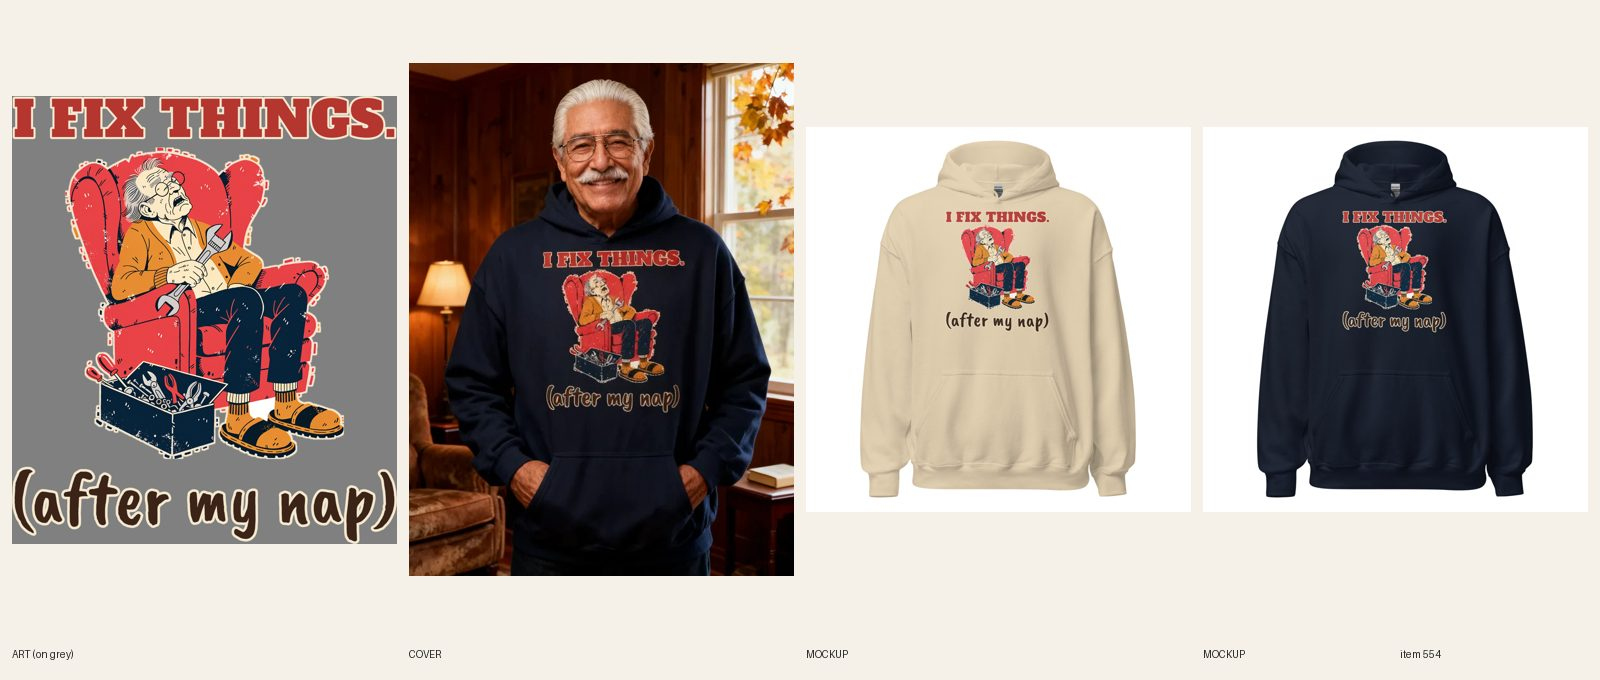
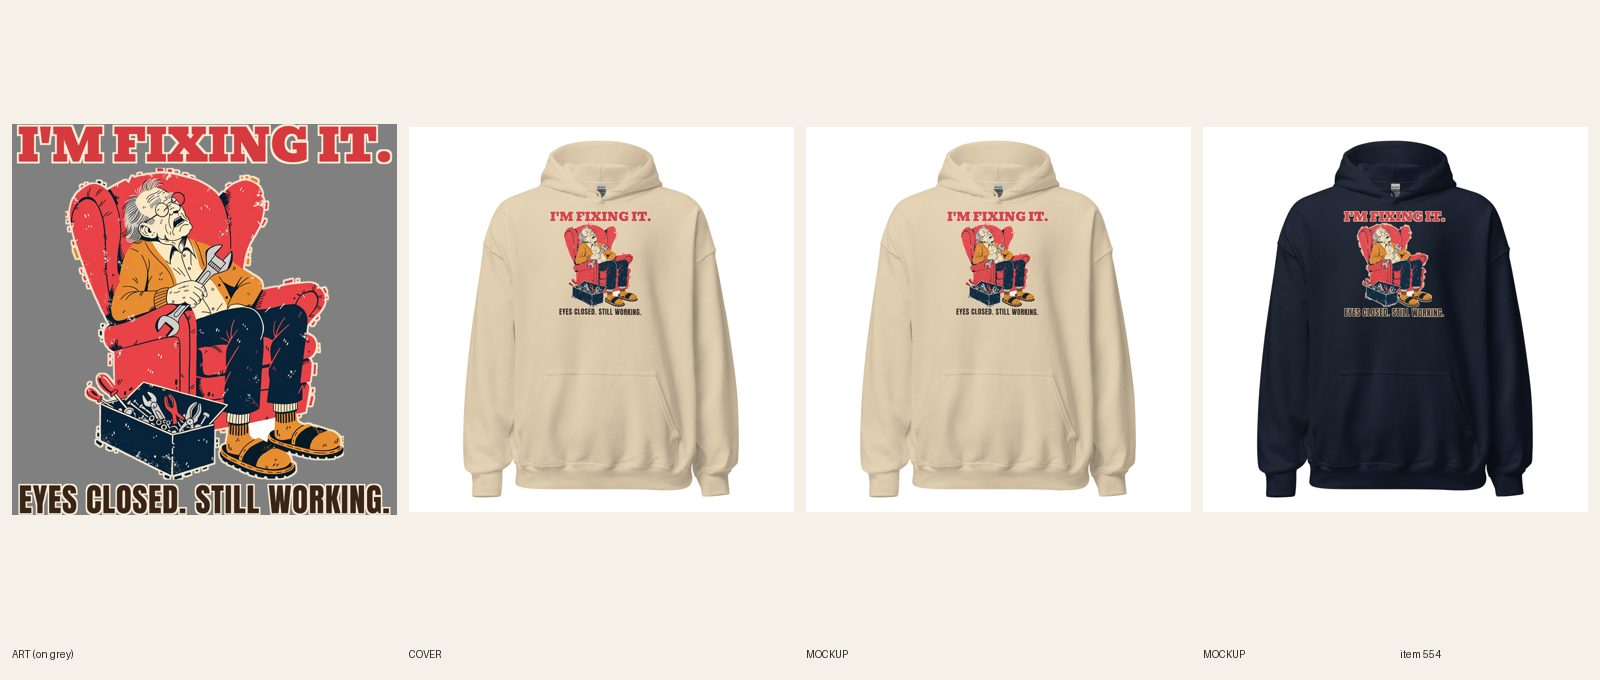
[C] review 554 I'm Fixing It grandpa hoodie (line + type redo)
Claude-Session: https://claude.ai/code/session_01CCHcDj8LcJJ8qUPtKE3cvn

Changed region(s): [[0.0, 0.0926, 0.5, 0.8647], [0.8438, 0.3088, 0.9062, 0.4941], [0.5938, 0.3088, 0.6562, 0.4941]]

diff --git a/designs/c554/make.py b/designs/c554/make.py
@@ -1,0 +1,30 @@
+from PIL import Image, ImageDraw, ImageFont, ImageFilter
+FD='designs/fonts/'
+RED=(214,58,62,255); CREAM=(246,236,214,255); BROWN=(58,36,24,255)
+def line(text,font,wfrac,W,fill,key,kw=31,track=0):
+    f=ImageFont.truetype(FD+font,800); adv=[f.getlength(c) for c in text]
+    tot=sum(adv)+track*(len(text)-1); size=int(800*W*wfrac/tot)
+    f=ImageFont.truetype(FD+font,size); adv=[f.getlength(c) for c in text]; tr=int(track*size/800)
+    asc,desc=f.getmetrics(); tot=int(sum(adv)+tr*(len(text)-1))
+    pad=80; im=Image.new('RGBA',(tot+2*pad,asc+desc+2*pad),(0,0,0,0))
+    def draw(layer,col):
+        d=ImageDraw.Draw(layer); x=pad
+        for c,a in zip(text,adv): d.text((x,pad),c,font=f,fill=col); x+=a+tr
+    k=Image.new('L',im.size,0); d=ImageDraw.Draw(k); x=pad
+    for c,a in zip(text,adv): d.text((x,pad),c,font=f,fill=255); x+=a+tr
+    k=k.filter(ImageFilter.MaxFilter(kw)); im.paste(Image.new('RGBA',im.size,key),(0,0),k)
+    draw(im,fill)
+    return im.crop(im.getbbox())
+src=Image.open('docs/print-files/554-fix-things-after-naps-hoodie.png').convert('RGBA')
+W=src.width; art=src.crop((0,403,W,2840))
+h1=line("I'M FIXING IT.",'Bevan-Regular.ttf',0.97,W,RED,CREAM)
+h2=line("EYES CLOSED. STILL WORKING.",'Anton-Regular.ttf',0.97,W,BROWN,CREAM,kw=25,track=20)
+print('h1',h1.size,'h2',h2.size,'ratio',h2.height/h1.height)
+g=30; H=h1.height+g+art.height+g+h2.height
+out=Image.new('RGBA',(W,H),(0,0,0,0)); y=0
+out.alpha_composite(h1,((W-h1.width)//2,0)); y=h1.height+g
+out.alpha_composite(art,(0,y)); y+=art.height+g
+out.alpha_composite(h2,((W-h2.width)//2,y))
+out.save('docs/print-files/554-v2-fixing-it.png'); print(out.size,H/W)
+for n,c in (('sand',(214,196,160,255)),('navy',(38,50,88,255))):
+    bg=Image.new('RGBA',out.size,c); bg.alpha_composite(out); bg.convert('RGB').resize((600,int(600*H/W))).save(f'designs/c554/prev_{n}.png')

diff --git a/docs/pipeline/554-grandpa-hoodie-i-fix-things-after-naps.md b/docs/pipeline/554-grandpa-hoodie-i-fix-things-after-naps.md
@@ -1,4 +1,4 @@
-status: REDO
+status: REVIEW
 lane: C
 type: twin
 id: 554
@@ -27,3 +27,4 @@ kd: 13
 - 2026-10-18 04:07 UTC builder [C]: resumed after container loss; Printful sync completed 12/12, audit clean except not-active. REVIEW.
 - 2026-10-18 04:20 UTC director: LIVE. FW 1500, both lines read on Navy; grandpa cover, hood visible. ACTIVE, published. Audit PASS.
 - 2026-10-18 17:22 UTC director: QUALITY RESET grade C (new line + type), REDO. The product stays ACTIVE (same handle, URL, title keyword). 1. Line (R3.12, quality-reset 'Lines'): "I FIX THINGS. / (after my nap)": Statement + parenthetical mild aside; stock grandpa joke, no real punch. Write 5 candidates, keep the one a stranger laughs at in 3 seconds without backstory; kill lines that only describe the picture; if none of the 5 is funny, PARK it. 2. Quality reset type bar (docs/backlog/quality-reset.md, 'The new bar'): headline at least 90% of the art width, heavy, colors pulled from the art; second line at least 45% of the headline's height, never a thin script on a dark or mid garment; use the lettering as a shape (arch, stacked lockup, words breaking into the art), not a plain bar above and a script line below; no font used on more than 1 in 6 of the last 30 designs. 3. Keep the art if it carries the new line, else one new illustration (R4/R5). New print means a new cover per R6.10, copy line one rewritten for the new joke (R8.3), and a fresh review sheet (R7.7). While quality-reset.md says PAUSED, only lane A builds, and only the samples step 2 names.
+- 2026-10-20 04:30 UTC builder [C]: REDO new line + type (grade C). 5 candidates: "I'M FIXING IT. / EYES CLOSED. STILL WORKING." (kept: the sleeping grandpa's own defense), "SHHH. I'M FIXING IT.", "SLEEPING ON THE JOB.", "WORLD'S OKAYEST FIXER.", "FIX IT TOMORROW (MAYBE)". Same art; headline I'M FIXING IT. in Bevan, 97% of the art width, red with cream keyline; EYES CLOSED. STILL WORKING. in Anton caps, 97% width, 78% of the headline's height, dark brown with cream outline so it reads on Sand and Navy (no cream fills, so one file serves both; logged: no light file needed, headline fill red). Print docs/print-files/554-v2-fixing-it.png 3009 x 3057, file 1090139027, FW 1500 TOP 0 (ends above the pouch seam), 12/12 relinked. Both front mockups replaced in place, read at phone size on Sand and Navy. Copy line one and SEO rewritten for the new line (R8.3: the joke, who wears it, when); keyword grandpa birthday gift kept. Plain product shot (cover on hold). fal $0.

diff --git a/docs/intake-log.md b/docs/intake-log.md
@@ -1,6 +1,7 @@
 RUNNING lane B since 2026-10-20 03:28 UTC
 2026-10-20 03:37 UTC — [A] Builder run: redid #246 Unisex Thanksgiving Totally a Pilgrim hoodie (type+line: NOT A TURKEY. / JUST A PILGRIM., same turkey art, Bowlby One full width, FW 1500 TOP 0, Sand file 1090137152 / Navy file 1090137159, 12/12 relinked, 2 fronts replaced in place, copy updated, plain product shot). REVIEW. fal $0.
 RUNNING lane C since 2026-10-20 03:23 UTC
+2026-10-20 04:32 UTC — [C] Builder run: redid #554 Men's Grandpa I Fix Things After Naps hoodie (new line + type: I'M FIXING IT. / EYES CLOSED. STILL WORKING., Bevan + Anton full width, same recliner art, file 1090139027, FW 1500 TOP 0, 12/12 relinked, 2 fronts replaced in place, copy + SEO updated, plain product shot). REVIEW. fal $0.
 2026-10-20 03:52 UTC — [C] Builder run: redid #635 Women's Fishing Out-Fished Him. Again. zip hoodie (type only: AGAIN. in Bowlby One heavy, navy on Ash / cream+red keyline on Navy, same art, back files 1090135325 / 1090135337, 12/12 relinked, 2 back mockups replaced in place, copy updated, plain product shot). REVIEW. fal $0.
 2026-10-20 03:20 UTC — [D] Director run: 6 LIVE (#548 #578 #618 #336 #414 #474, audit PASS each), 7 new redos approved and held (#205 #217 #219 #326 #356 #358 #650), 2 REDO (#216 line + shape, #507 R4.1 panel edges), lane E refilled to 12 READY with briefs #704–#710 (crop top hoodie, knitting sweatshirt, knitting shirt, mtb shirt, bouldering shirt, skiing shirt, climbing shirt). Inbox: nothing new. No digest (not due). Lock released.
 RUNNING director since 2026-10-20 03:12 UTC
